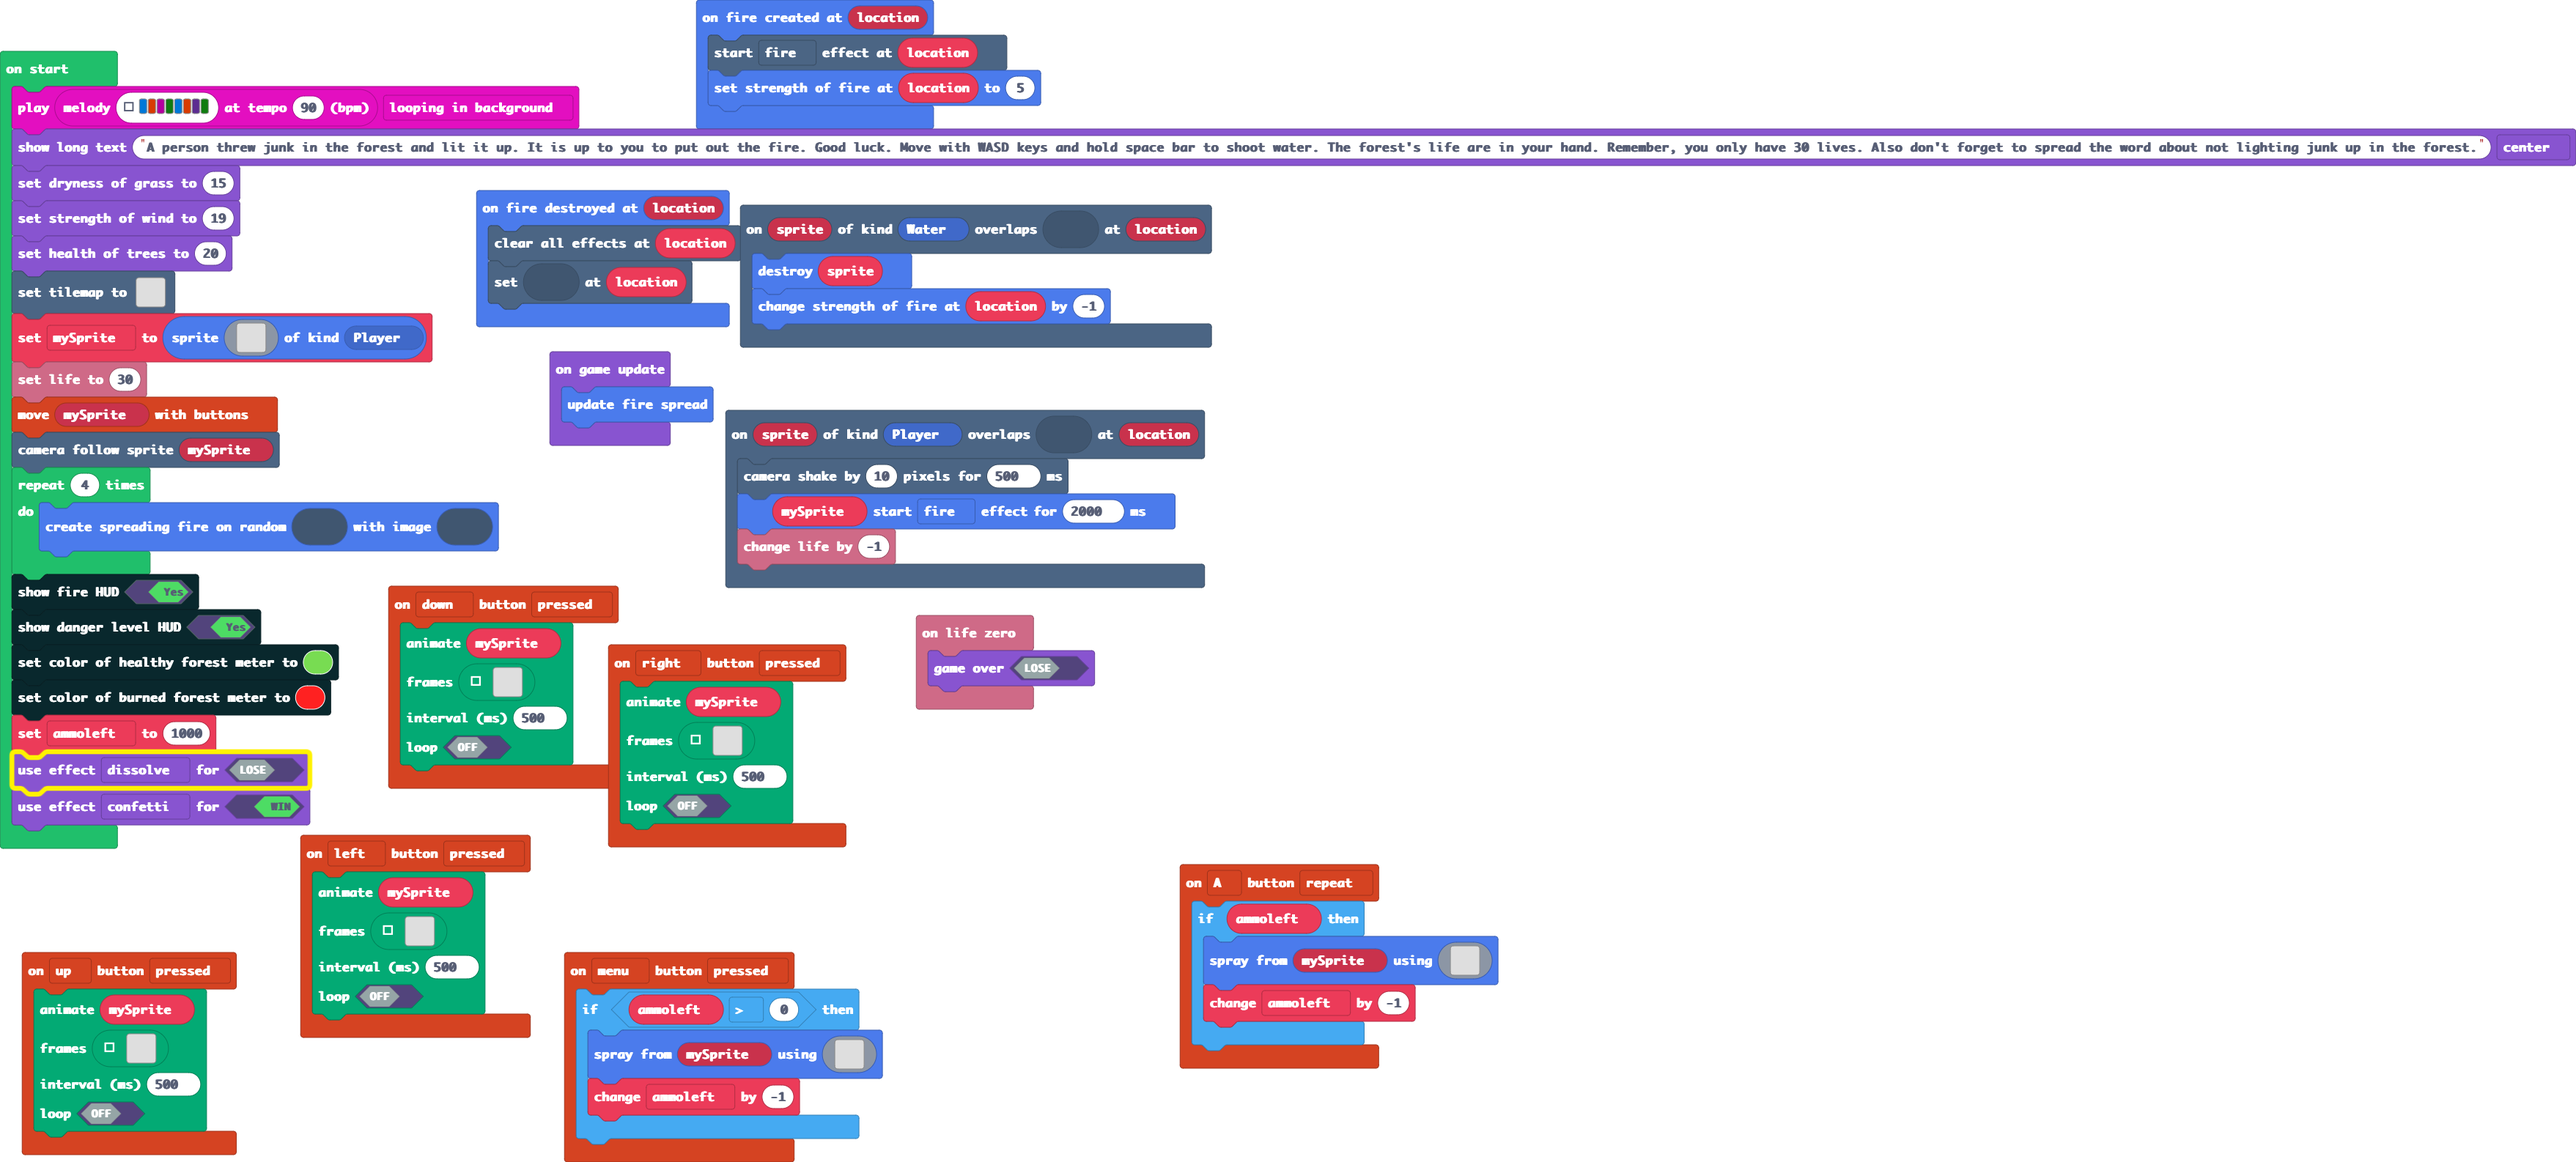
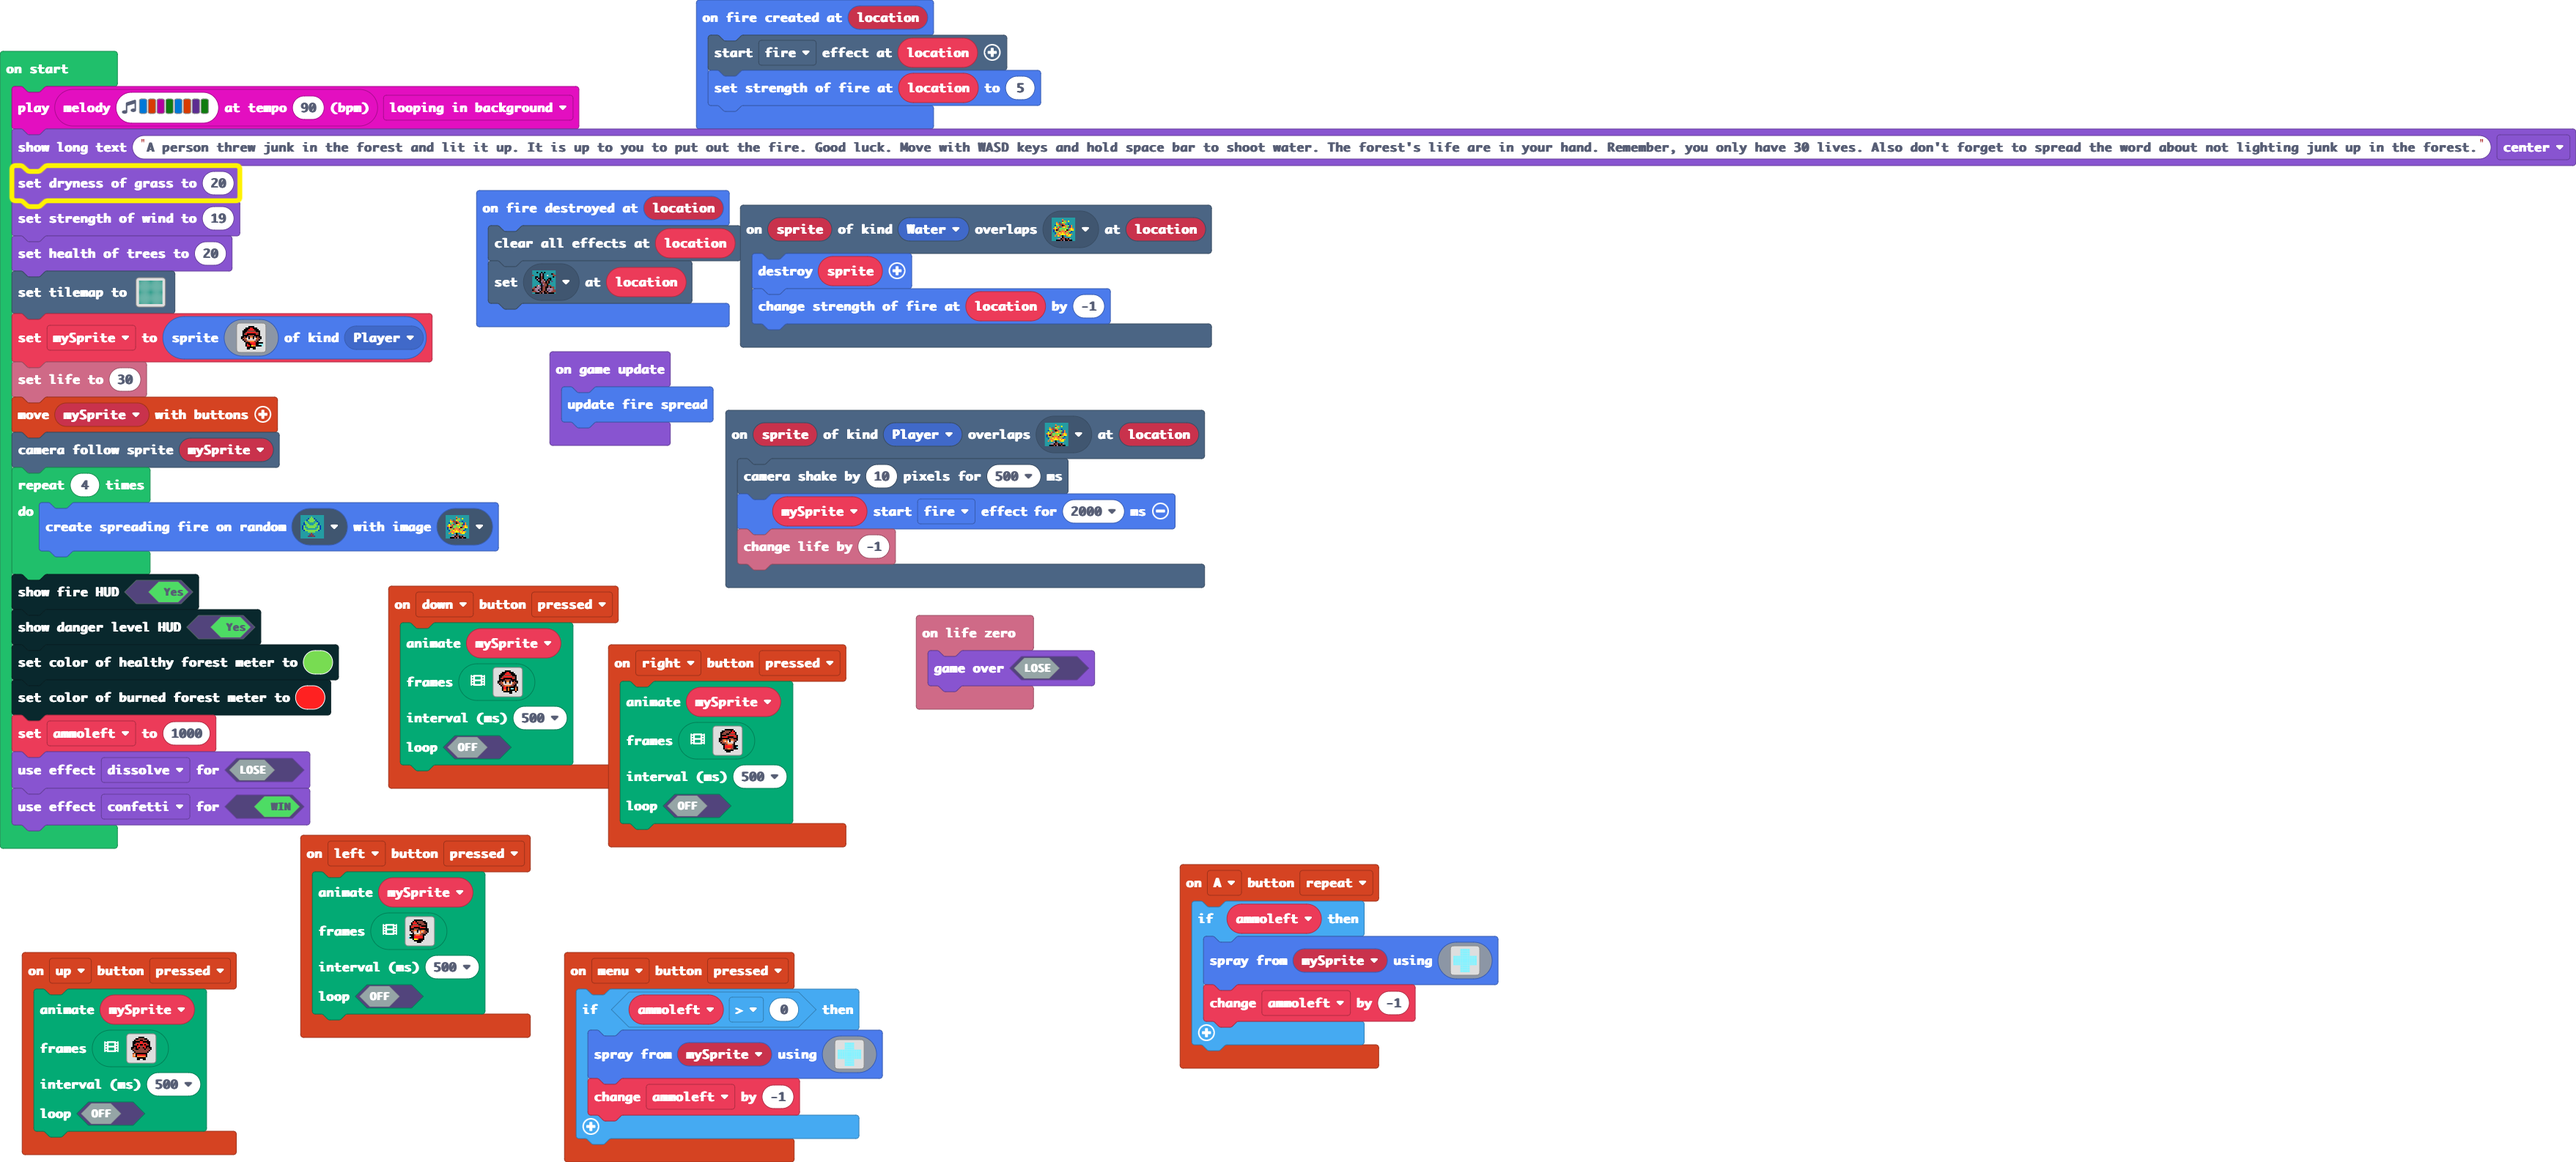
Update main.blocks, main.ts

diff --git a/main.ts b/main.ts
@@ -392,7 +392,7 @@ let ammoleft = 0
 let mySprite: Sprite = null
 music.play(music.stringPlayable("E B C G E B D G ", 90), music.PlaybackMode.LoopingInBackground)
 game.showLongText("A person threw junk in the forest and lit it up. It is up to you to put out the fire. Good luck. Move with WASD keys and hold space bar to shoot water. The forest's life are in your hand. Remember, you only have 30 lives. Also don't forget to spread the word about not lighting junk up in the forest.", DialogLayout.Center)
-game.set_dryness_of_grass(15)
+game.set_dryness_of_grass(20)
 game.set_strength_of_wind(19)
 game.set_health_of_trees(20)
 tiles.setTilemap(tilemap`level10`)
